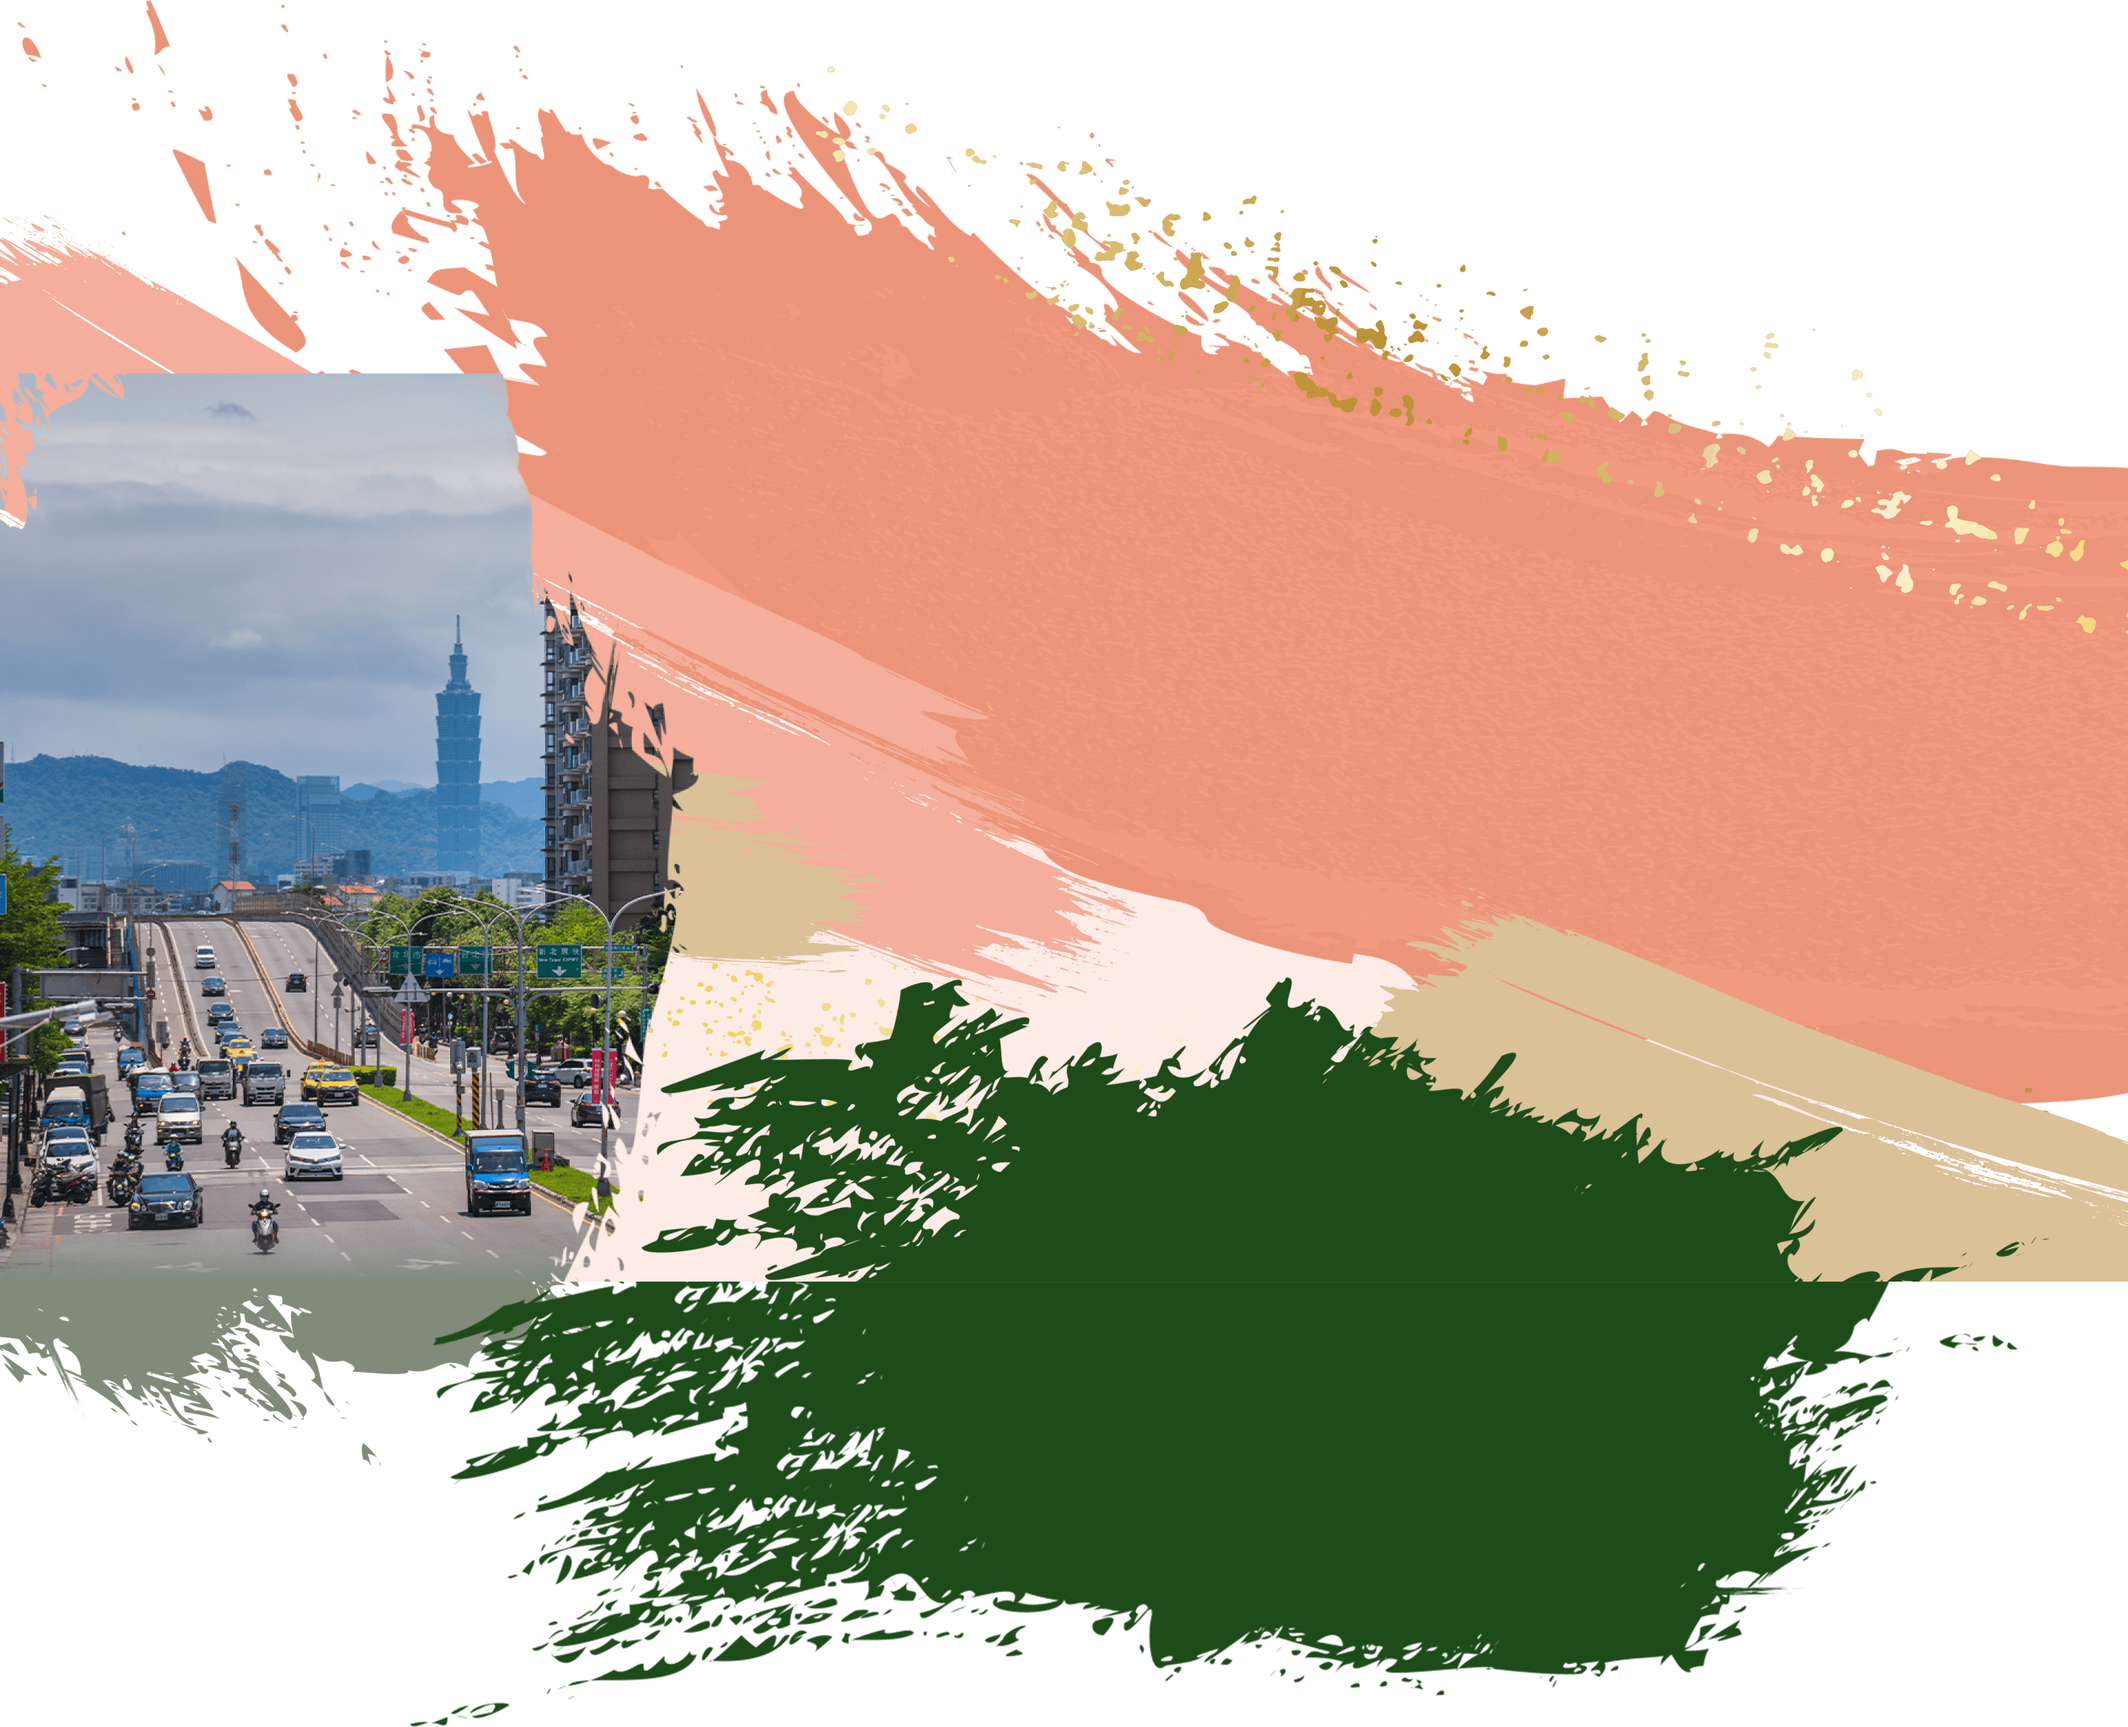
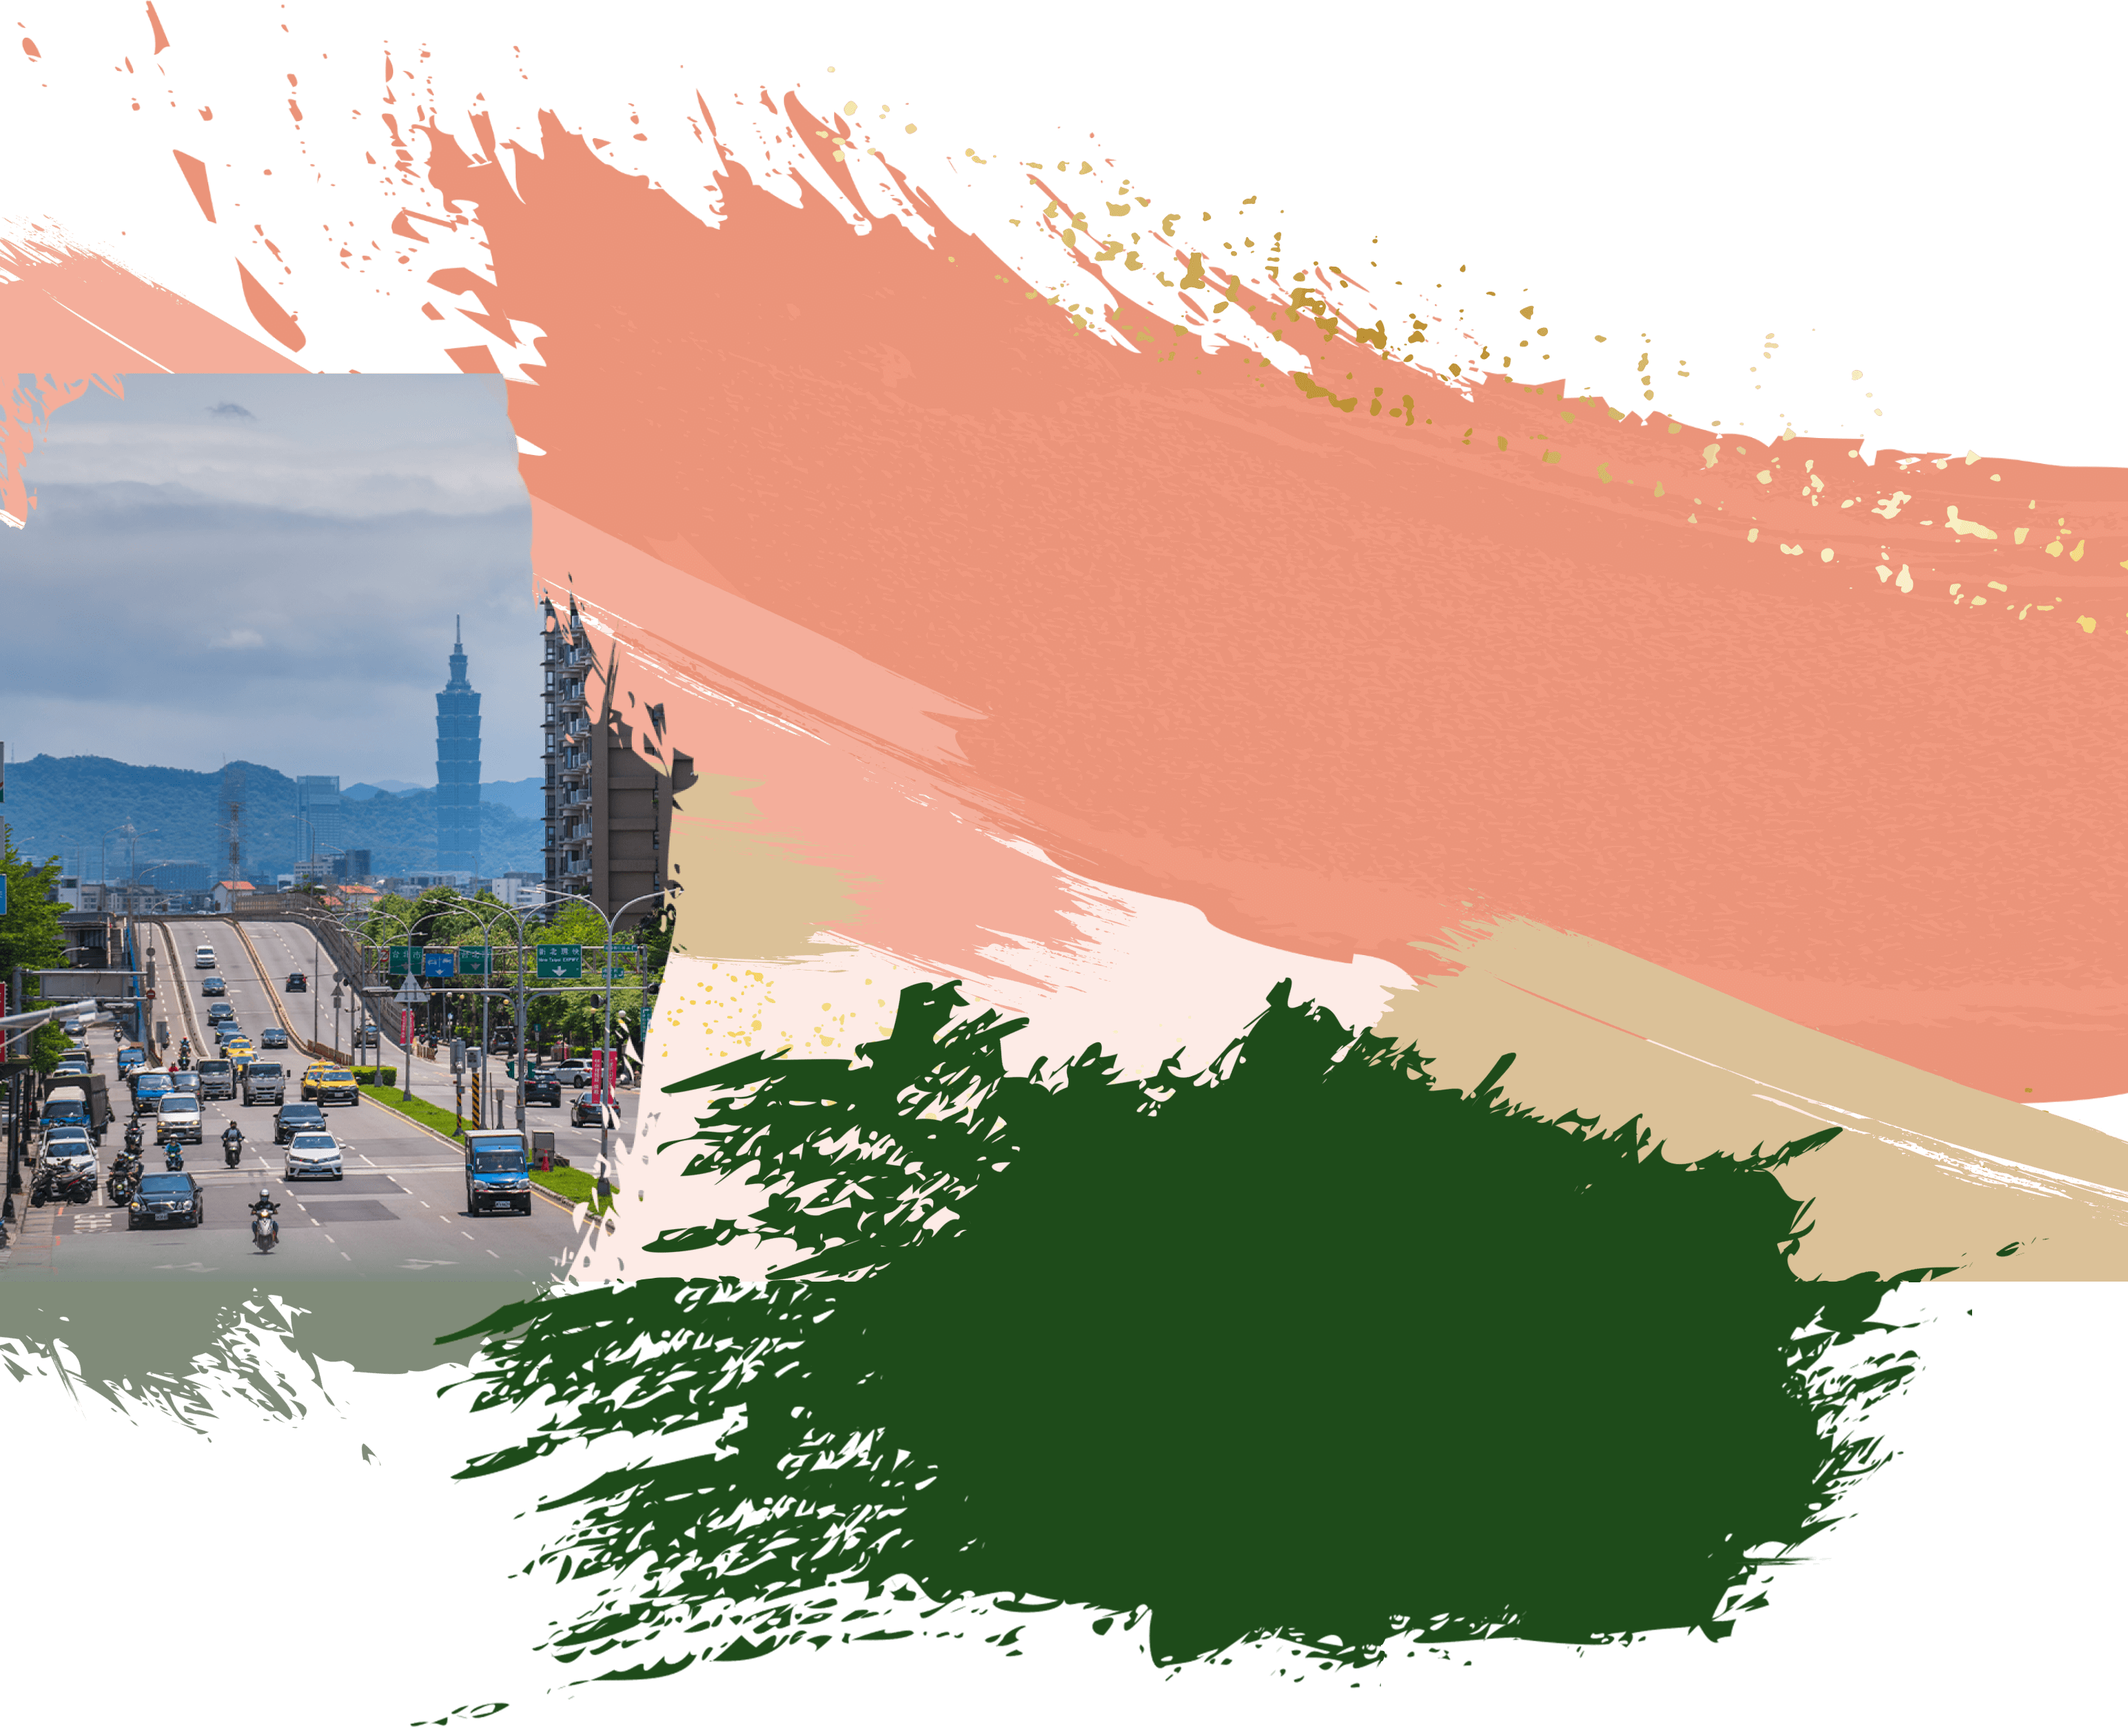
00

Changed region(s): [[0.625, 0.7494, 0.9375, 0.9679]]

diff --git a/src/section/s5.vue b/src/section/s5.vue
@@ -2,7 +2,7 @@
   <article class="s5">
     <img
       class="bg"
-      src="@/section/s5/bg.png" alt="bg" v-if="!$isMobile()"
+      src="@/section/s5/bg.webp" alt="bg" v-if="!$isMobile()"
     />
     <img
       class="bg"
